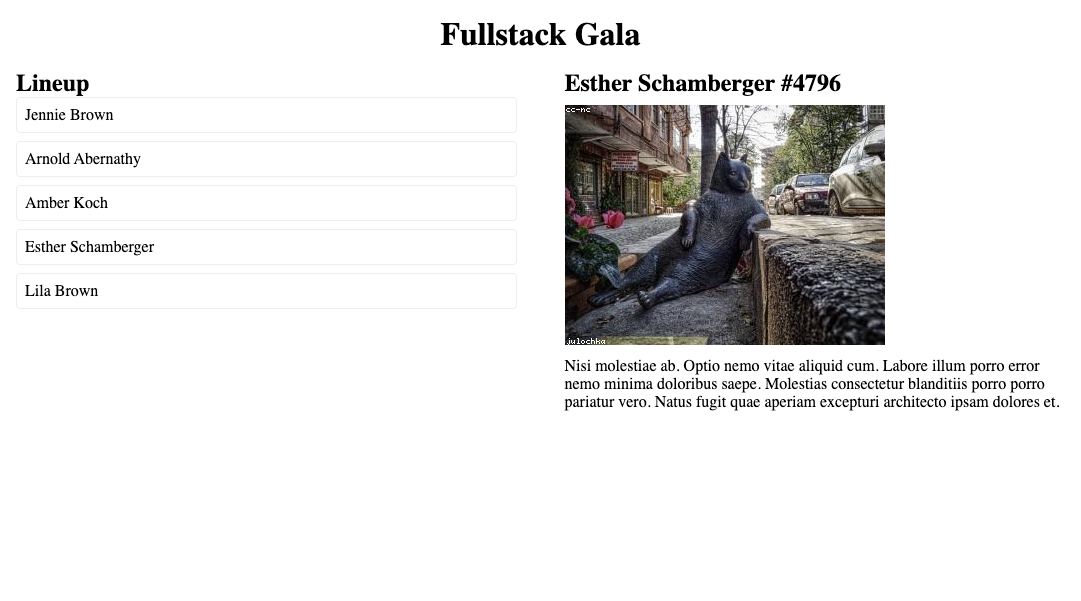
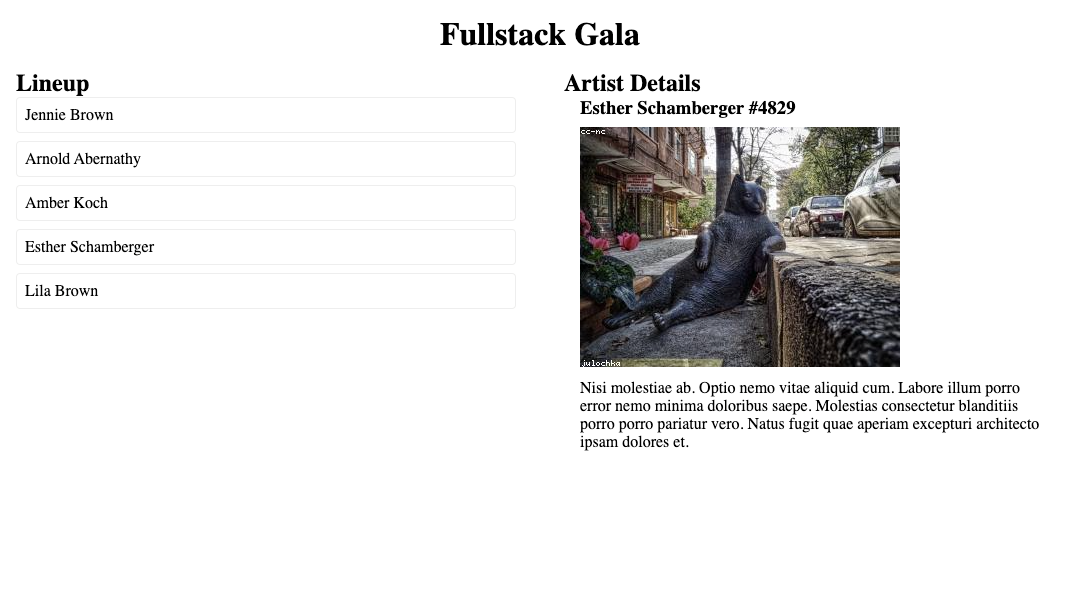
Rename component for selected artist

diff --git a/index.js b/index.js
@@ -38,8 +38,8 @@ function ArtistList() {
   // TODO
 }
 
-/** A card with information about an Artist */
-function SelectedArtist() {
+/** Detailed information about the selected artist */
+function ArtistDetails() {
   if (!selectedArtist) {
     const $p = document.createElement("p");
     $p.textContent = "Please select an artist to learn more.";
@@ -60,12 +60,13 @@ function render() {
         <ArtistList></ArtistList>
       </section>
       <section id="selected">
-        <SelectedArtist></SelectedArtist>
+        <h2>Artist Details</h2>
+        <ArtistDetails></ArtistDetails>
       </section>
     </main>
   `;
   $app.querySelector("ArtistList").replaceWith(ArtistList());
-  $app.querySelector("SelectedArtist").replaceWith(SelectedArtist());
+  $app.querySelector("ArtistDetails").replaceWith(ArtistDetails());
 }
 
 async function init() {

diff --git a/README.md b/README.md
@@ -30,15 +30,15 @@ Once you see the names of all the artists from the API, designate a new person t
 
 4. Complete `getArtist` to fetch the requested artist from the API with the given ID. It should update `selectedArtist` in state, then rerender the page.
 5. Add an event listener to `ArtistListItem` so that when it is clicked, it will call `getArtist` with the corresponding id.
-6. Complete the `SelectedArtist` component so that when there is a selected artist in state, it will return an element with this structure:
+6. Complete the `ArtistDetails` component so that when there is a selected artist in state, it will return an element with this structure:
    ```html
-   <article class="artist">
-     <h2>{artist name} #{artist id}</h2>
+   <section class="artist">
+     <h3>{artist name} #{artist id}</h3>
      <figure>
        <img alt="{artist name}" src="{artist imageUrl}" />
      </figure>
      <p>{artist description}</p>
-   </article>
+   </section>
    ```
 
 Congrats! You should now be able to click on the name of an artist in the line up to see more information about that artist.
